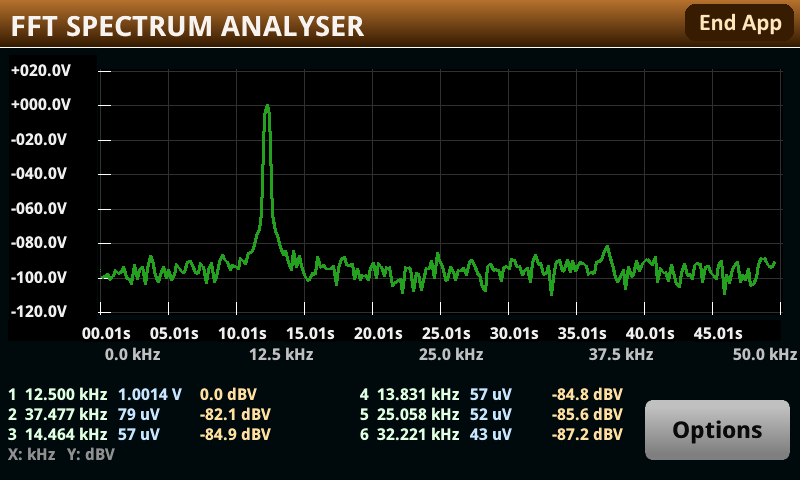
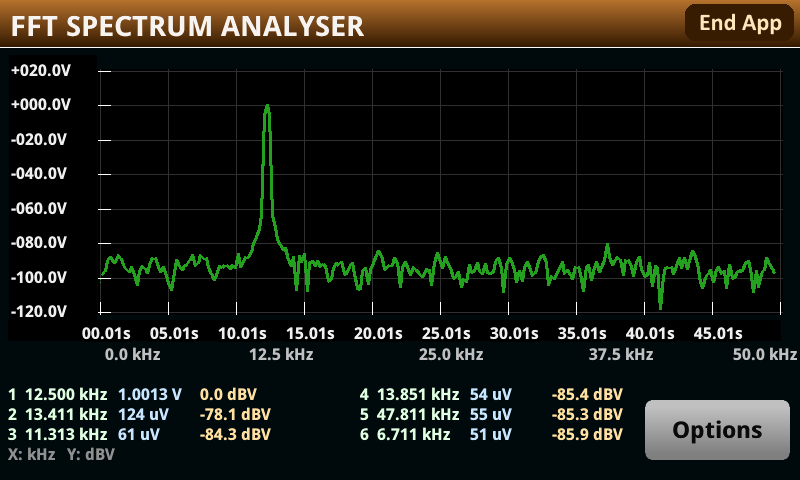
Re-measure every size, and correct the figures the first sweep got wrong
The documentation described the trace as a min/max reduction to 256 columns and quoted
frame times from before the staged refill and the measured timer period. All three
documents now match the code, and the two manual screenshots are retaken -- they showed a
20 dB noise band, which is what the min/max trace drew and the maximum-only trace does
not.

The figures in the previous commit were measured through the WRONG CODE, and the error is
worth recording because the harness looked correct while it happened. docmeas5.py parks
the frame loop before loading the modules and calls fftsa.saved_frame() to time one frame
synchronously; its park saved fftsa.frame only when saved_frame was nil, so after the
reload saved_frame still pointed at the PREVIOUS build's frame wrapper. The sweep measured
the old instrumented frame -- gcinfo per frame, the counters and a legend rewrite -- while
reporting it as the new one. Caught by a screen capture showing a debug legend belonging
to a build whose instrumentation had already been deleted. Both scripts now clear the save
with an explicit fftsa.parked flag.

Re-measured, firmware 1.7.17a, twelve frames a size, event log clean:

  N      apply   frame   worst  period  rate   occ   bin Hz     acq
  512    0.106   0.079   0.081   0.10  10.00   81%   195.313     5.1 ms
  1024   0.219   0.122   0.125   0.20   5.00   62%    97.656    10.2 ms
  2048   0.376   0.212   0.215   0.30   3.33   72%    48.828    20.5 ms
[…]

diff --git a/docs/PERFORMANCE.md b/docs/PERFORMANCE.md
@@ -9,7 +9,7 @@ The short version: **precision is not what this app pays for, and neither is the
 It pays for interpreter dispatch and for marshalled calls across the TSP API. Every lever below is
 about doing fewer operations, not cheaper ones.
 
-## The displayed frame rate is quantised, and that is the whole story
+## The displayed frame rate is quantised, and the app chooses which tick it lands on
 
 The app offers 512 through 16,384 samples in Options, retaining 512 as the default. Every size was
 measured on the instrument on 2026-10-24 -- see **Every selectable sample count, measured** below --
@@ -33,6 +33,17 @@ displayed = 1 / (0.05 * ceil(frame / 0.05))
 which admits 20, 10, 6.67, 5 fps and nothing between. **Shaving a frame from 81 ms to 55 ms buys
 nothing; getting it from 51 to 49 doubles the rate.** Optimising this app means crossing a boundary,
 not reducing a number.
+
+That formula describes a period left at the 0.05 s floor, which is what the app used to do, and the
+idle it leaves is then an accident of rounding -- 44 % at 512 samples and 2 % at 4096. The second
+figure is why the Options button was unreachable at the larger counts: `delay()` lets the display task
+paint, but dispatching a touch needs the Lua interpreter, and during a frame the interpreter is busy,
+so the only time a press can be handled is the gap between a frame ending and the next tick.
+
+The app now arms the timer deliberately, at the smallest tick count leaving about a fifth of the
+period idle, from the peak work over eight real frames (`fftsa.tick_period`). The quantisation is
+unchanged -- it is the firmware's -- but which tick a size lands on is now a decision with a reason
+rather than a remainder.
 
 ### Measured, N=512, 256 bins, graph 784x272, timer frozen, frames back to back
 
@@ -135,26 +146,41 @@ event log read afterwards; if 1706 appears, `sg_yield` is short of the display t
 ## Every selectable sample count, measured
 
 Firmware 1.7.17a, 100 kS/s, 10 V range, 10 Hz to 50 kHz span, a 12.5 kHz 1.000 V tone, graph
-784x292, frame timer parked so each figure is one synchronous call. Taken 2026-10-24.
+784x292, 255 trace points at every count. Twelve frames a size, called synchronously with the timer
+parked, so the period each size settles on has been re-armed from real frames before it is read.
+Taken 2026-10-25, event log clean throughout. `tools/../../fftmeas/docmeas5.py` is the run.
 
-| N | Apply | frame | displayed | trace points | bin width |
-|---|---|---|---|---|---|
-| 512 | 0.105 s | 0.095 s | 10 fps | 255 | 195.31 Hz |
-| 1024 | 0.232 s | 0.161 s | 5 fps | 380 | 97.66 Hz |
-| 2048 | 0.393 s | 0.258 s | 3.3 fps | 441 | 48.83 Hz |
-| 4096 | 0.755 s | 0.456 s | 2 fps | 475 | 24.41 Hz |
-| 8192 | 1.488 s | 0.855 s | 1.1 fps | 496 | 12.21 Hz |
-| 16384 | 2.906 s | 1.681 s | 0.6 fps modelled, **0.5 Hz observed** | 502 | 6.10 Hz |
+| N | Apply | frame | worst frame | period | displayed | occupancy | bin width | record |
+|---|---|---|---|---|---|---|---|---|
+| 512 | 0.106 s | 0.079 s | 0.081 s | 0.10 s | **10.0 fps** | 81 % | 195.31 Hz | 5.1 ms |
+| 1024 | 0.219 s | 0.122 s | 0.125 s | 0.20 s | 5.0 fps | 62 % | 97.66 Hz | 10.2 ms |
+| 2048 | 0.376 s | 0.212 s | 0.215 s | 0.30 s | 3.33 fps | 72 % | 48.83 Hz | 20.5 ms |
+| 4096 | 0.737 s | 0.460 s | 0.526 s | 0.60 s | 1.67 fps | 88 % | 24.41 Hz | 41.0 ms |
+| 8192 | 1.455 s | 0.860 s | 0.883 s | 1.10 s | 0.91 fps | 80 % | 12.21 Hz | 81.9 ms |
+| 16384 | 2.893 s | 1.686 s | 1.730 s | 2.15 s | 0.47 fps | 80 % | 6.10 Hz | 163.8 ms |
 
-The 0.095 s frame at 512 against the 81.8 ms of the phase table above is the same configuration
-measured a different way, through `options_apply` rather than per phase.
+**The worst frame is not the mean plus noise.** At 4096 the slowest of twelve is 0.526 s against a
+0.460 s mean, a 14 % outlier, and it is what puts that row on 0.60 s rather than 0.55 -- the period
+covers the slowest frame by design, so one slow frame in a window costs a tick until the window
+turns over. Every other count holds within 2 % of its mean. The occupancy column is `worst / period`,
+so 4096's 88 % is that outlier arriving after the period had been armed from a lower peak.
 
-**These frame times are a floor, not what the operator sees.** They were taken with the frame timer
-parked and `saved_frame()` called synchronously, which leaves out the display task's own paint -- in
-the running app that work lands between frames and costs another tick or two. Measured on the
-installed app at 16384 the update is about **0.5 Hz**, a 2.0 s period, against the 0.59 fps the 1.681 s
-figure predicts: the real frame is nearer 1.95 s. Treat the table as per-phase cost and the 0.5 Hz as
-the rate.
+**The displayed rate is now a figure the app chooses, not one the quantisation leaves.** The period
+is re-armed from the peak work over eight real frames, through `fftsa.tick_period()`, which asks for
+the work to be about 80 % of the period and rounds up to the firmware's 0.05 s tick. So `period` is
+what the operator sees and `worst frame` is what it was sized to cover -- the mean is only there to
+show the spread is small, under 2 % at every count.
+
+4096 and 8192 are **slower than an earlier revision of this table** recorded -- 1.67 fps against 2.0,
+0.91 against 1.1 -- and that is the rule working rather than a regression. Those figures came from a
+period left at the 0.05 s floor with ticks dropped, which gave the interpreter 2 % idle at 4096 and
+made the Options button unreachable there. A fifth of each frame is now idle by construction, and the
+button answers at 16384.
+
+Two sources of error this table had before, both now gone: the frame times were taken without the
+display task's paint and so ran a tick or two optimistic, and the trace point count grew with N
+(255 at 512 up to 502 at 16384) which moved the fill cost between rows. The trace is a fixed 255
+points at every count.
 
 ### Where a frame goes, per sample and per bin
 
@@ -169,12 +195,41 @@ Each measured on its own, so the frame can be built from them for any count:
 | max-scan over `fft_pwr` | **2.5 us a bin** | per bin examined by the column reduction |
 
 `fftsa.frame_estimate(n)` in `spectrum_app.tsp` is these numbers, and predicts 0.080 s at 512
-against 0.095 measured and 1.63 s at 16384 against 1.681. `busy_max` is three times it.
+against 0.079 measured and 1.63 s at 16384 against 1.686. `busy_max` is three times it.
 
-**The column cap is why the larger counts are usable.** Writing every bin at 16384 would be 8191
-points at 51.6 us, about 0.42 s a frame -- a quarter of the whole frame -- for points the firmware
-then discards, 784 pixels being all it has. Reducing to 256 columns costs a 2.5 us scan per bin plus
-about 500 writes: 0.05 s.
+**The model no longer sets the frame rate**, and it should not be made to. It is a fit at one point
+count and one draw path, and it errs both ways: 80.4 ms at 512 against 79, and 216 ms at 2048 against
+212. Divided by the occupancy target those errors land either side of a tick boundary, which is a
+50 % swing in displayed rate. `frame_estimate` is now used only for the first arm, before any frame
+has been timed, and for `busy_max`; `fftsa.frame()` re-arms from measurement thereafter.
+
+**The fixed column count is why the larger counts are usable.** Writing every bin at 16384 would be
+8191 points at 51.6 us, about 0.42 s a frame -- a quarter of the whole frame -- for points the
+firmware then discards, 784 pixels being all it has. 255 columns costs a 2.5 us scan per bin plus 255
+writes: about 0.035 s at any count, which is also what makes the frame time linear in N.
+
+### The refill, and the window it opens
+
+The trace buffer is bound to the graph for the life of the app and refilled in place, so it is at
+n = 0 from `clear()` until the last write and a paint landing there draws a blank or partial trace.
+That window is the flicker, and it cannot be removed -- the firmware needs the clear before a
+`FILL_ONCE` buffer can be rewritten, and the alternative of filling a second buffer and handing it
+over needs a `removeall`, which repaints the whole widget including its own axis labels every frame.
+
+So the window is made narrow instead. Every value is computed into four preallocated arrays *before*
+the clear, while the buffer still holds the previous complete trace, leaving only
+`buffer.write.reading` inside it. Measured at 255 points:
+
+| | time |
+|---|---|
+| staging, outside the window | 7.6 ms |
+| clear and 255 writes, the window | **20.3 ms** |
+| the same refill interleaved, as it was | 30 ms, all of it the window |
+
+A point costs about 109 us to produce and 51.6 of that is the write, so this is the better half of
+the work moved out. There is no bulk route into a reading buffer (`FIRMWARE_API.md`), so one write a
+point is the floor, and caching the function in a local -- 65 us against 72 through the table -- is
+the only other lever.
 
 ### Apply, and why it is the figure an operator notices
 

diff --git a/docs/MANUAL.md b/docs/MANUAL.md
@@ -10,7 +10,7 @@ screen and buffer the app made.
 
 ![The spectrum screen: a 12.5 kHz 1.000 V tone at 0.0 dBV over a 10 Hz to 50 kHz span, 512 samples, Hann window, noise floor near -100 dBV](manual-spectrum.png)
 
-+20 to −120 dBV against frequency. By default, 512 samples a frame, 256 bins, about 10 frames a second.
++20 to −120 dBV against frequency. By default, 512 samples a frame, 256 bins, 10 frames a second.
 Options offers larger records for finer bin spacing, at a slower update rate.
 
 **Two rows of numbers sit under the plot. Read the lower one.** The graph object's X axis is
@@ -72,7 +72,7 @@ carries** below).
 
 | FFT Samples | 512 | 1024 | 2048 | 4096 | 8192 | 16384 |
 |---|---|---|---|---|---|---|
-| Apply | 0.11 s | 0.23 s | 0.39 s | 0.76 s | 1.49 s | **2.91 s** |
+| Apply | 0.11 s | 0.22 s | 0.38 s | 0.74 s | 1.46 s | **2.89 s** |
 
 Most of it is the gain table and the window: both are rebuilt for the new size, and both are
 proportional to it. The loading screen is up for all of it.
@@ -156,10 +156,10 @@ watch which peak follows.
 
 ## How many points the trace carries
 
-The graph is 784 pixels wide, so a sample count above 512 gives more bins than there are columns to
-draw them in -- 8192 bins at 16384 samples. The app therefore reduces the trace to **256 columns**,
-and the reduction is not a stride: each column reports the **minimum and the maximum** of the bins
-that fall in it.
+The plotted area is 680 pixels wide, measured off a panel capture, so a sample count above 512 gives
+more bins than there are columns to draw them in -- 8192 bins at 16384 samples. The app therefore
+draws a fixed **255 columns** at every sample count, and the reduction is not a stride: each column
+reports the **maximum** of the bins that fall in it.
 
 Three consequences, and the first is the point of it:
 
@@ -179,15 +179,20 @@ Three consequences, and the first is the point of it:
 
 ![The spectrum screen at 16384 samples: the 12.5 kHz tone as a narrow spike at 0.0 dBV, its second
 and third harmonics resolved as separate spikes at 25.000 and 37.500 kHz, and the noise floor drawn
-as a band between about -100 and -118 dBV](manual-spectrum-16384.png)
+as a single line near -100 dBV](manual-spectrum-16384.png)
 
-The band along the bottom is the per-column minimum and maximum. Compare the 512-sample shot at the
-top of this manual, where the same tone is a single 195 Hz-wide lump and the harmonics are lost in
-the floor.
+Compare the 512-sample shot at the top of this manual, where the same tone is a single 195 Hz-wide
+lump and the harmonics are lost in the floor.
+
+Because each column reports its maximum, the noise floor reads about 6 dB high and as an upper
+envelope rather than a band. Writing the minimum as well was tried and withdrawn: it doubled the
+point count and made every second segment span the whole noise band, about 45 px, where a
+single-valued trace moves a few pixels between neighbours -- and the firmware's cost of drawing a
+trace is per segment length.
 
 Reducing the trace does not reduce the **table**: `find_peaks` reads every bin at full resolution, so
 a reported frequency is never a column edge. It is also what makes the larger counts usable at all --
-writing 8191 points costs 51.6 us each, about 0.42 s a frame, against 0.03 s for 502.
+writing 8191 points costs 51.6 us each, about 0.42 s a frame, against 0.035 s for 255.
 
 ## The peak table is more accurate than the trace
 
@@ -269,19 +274,27 @@ reported a 100 Hz tone at 390.6 Hz and 16 dB low.
 - **A span wider than 50 kHz raises the rate** and coarsens the bins with it. At 512 samples:
   200 kS/s to 100 kHz (390.6 Hz bins), 500 kS/s to 250 kHz (976.6 Hz), 1 MS/s to 500 kHz (1953 Hz).
   Divide all three by 32 at 16384 samples. 500 kHz is the highest tone the instrument can show.
-- **About 10 frames a second at 512 samples, and far slower above it.** The firmware's shortest
-  timer period is 0.05 s and a tick arriving mid-frame is dropped, so the displayed rate is
-  `1 / (0.05 * ceil(frame / 0.05))` -- a ladder of 20, 10, 6.67, 5 fps and on down, not just those
-  four. Measured frame times and the rates they give:
+- **10 frames a second at 512 samples, and far slower above it.** The firmware's shortest timer
+  period is 0.05 s and a tick arriving mid-frame is dropped, so the rate can only be `1 / (0.05 * k)`
+  -- a ladder of 20, 10, 6.67, 5 fps and on down. The app times its own frames and picks the smallest
+  period that leaves about a fifth of it idle, so the rate below is what it settles on rather than
+  wherever the rounding fell:
 
   | FFT Samples | 512 | 1024 | 2048 | 4096 | 8192 | 16384 |
   |---|---|---|---|---|---|---|
-  | frame | 0.095 s | 0.161 s | 0.258 s | 0.456 s | 0.855 s | 1.681 s |
-  | displayed | 10 fps | 5 fps | 3.3 fps | 2 fps | 1.1 fps | **0.6 fps** |
+  | frame | 0.079 s | 0.122 s | 0.212 s | 0.460 s | 0.860 s | 1.686 s |
+  | displayed | 10 fps | 5 fps | 3.33 fps | 1.67 fps | 0.91 fps | **0.47 fps** |
 
-  At 16384 the trace repaints about every **2 s** -- 0.5 Hz, measured on the installed app -- and the
-  glass is unresponsive for most of each frame: the display task only runs while Lua is blocked. The
-  frame figures above exclude that paint, so they run a tick or two optimistic.
+  That reserved idle is what keeps the **Options** button answering: `delay()` lets the display task
+  paint, but dispatching a press needs the Lua interpreter, and during a frame the interpreter is
+  busy. It costs 4096 and 8192 about a tick each against leaving the period at the floor, and in
+  exchange every size stays operable -- at 16384 the trace repaints about every two seconds and the
+  button still answers. **16384 is usable rather than comfortable**, and 32768 is not offered.
+
+- **The trace flickers slightly.** The firmware requires a writable buffer to be cleared before it
+  can be rewritten, so the trace buffer is empty for the 20 ms it takes to write 255 points, and a
+  repaint landing in that window draws a partial trace. Everything the refill needs is computed
+  before the clear to keep that window as short as the write calls themselves.
 - **No rectangular or flat-top window.** Rectangular nulls one bin from the peak, which makes the
   three-bin estimate unusable; flat-top is seven bins wide.
 - **The peak table starts two or three bins above DC** and the top bin of the span has no sub-bin

diff --git a/README.md b/README.md
@@ -4,7 +4,7 @@ A real-time FFT spectrum analyser for the Keithley DMM6500, DAQ6510 and DMM7510,
 on the instrument** as a TSP app. The digitizer captures, the instrument computes the transform in
 Lua, and the firmware's own graph object draws the trace. No host, no PC software.
 
-![The spectrum screen: two tones at 21.1 and 42.2 kHz, 4.5 and 4.0 V, over a 0 to 50 kHz span with the Hann window](docs/manual-spectrum.png)
+![The spectrum screen: a 12.5 kHz 1.000 V tone reading 0.0 dBV over a 10 Hz to 50 kHz span, 512 samples, Hann window, noise floor near -100 dBV](docs/manual-spectrum.png)
 
 A bench multimeter is not a spectrum analyser. This one has a 1 MS/s digitizer, a 400 MHz processor
 and a touchscreen, which is enough for 195 Hz resolution at 10 frames a second.
@@ -16,10 +16,10 @@ and a touchscreen, which is enough for 195 Hz resolution at 10 frames a second.
 - **Digitizes** up to 1 MS/s, with selectable 512 to 16,384 samples per frame (default 512).
 - **Transforms** with a real-input radix-2 FFT in Lua 5.0.2. The window, the bit-reversal permutation
   and every twiddle factor are precomputed when settings are applied. 256 to 8,192 bins.
-- **Plots** through `display.OBJ_GRAPH`, one call a frame rather than one a point, which brings axes,
-  grid, labels and auto-scaling with it. Above 256 bins in the span the trace is reduced to the
-  graph's 256 columns by the **minimum and maximum of each column**, so a narrow tone always reaches
-  it and the noise floor reads as a band.
+- **Plots** through `display.OBJ_GRAPH`, one buffer refill a frame and no graph call at all, which
+  brings axes, grid, labels and auto-scaling with it. The trace is a fixed **255 columns** at every
+  sample count, each carrying the **maximum of the bins it covers**, so a narrow tone always reaches
+  it however many bins the span holds.
 - **Finds six peaks** to sub-bin accuracy, correcting both the frequency and the scalloping loss.
 - **Offers four windows**, Kaiser with six betas, and reads peaks exactly for each.
 - **Previews acquisition settings** in Options: sampling rate, bin spacing and record duration
@@ -34,9 +34,9 @@ content folds it into view — a pure 21.1 kHz sine, sampled for a 7 kHz span, d
 More samples give finer bins without reducing bandwidth: 16,384 samples at 100 kS/s give
 6.10 Hz spacing and a 163.84 ms record. Acquisition duration is `N / fs`, not the full frame time;
 processing and display add overhead. Larger sizes cost update rate, and measurably so: the frame goes
-from 0.095 s at 512 samples to 1.681 s at 16,384, and Apply from 0.11 s to 2.91 s. The trace repaints
-about every 2 s at the top size -- 0.5 Hz observed -- and the glass is unresponsive for most of each
-frame, because the display task only runs while Lua is blocked. `docs/PERFORMANCE.md` has every size measured.
+from 0.079 s at 512 samples to 1.686 s at 16,384, and Apply from 0.11 s to 2.89 s, so the trace
+repaints at 10 fps at the default and about every two seconds at the top size. 16,384 is usable
+rather than comfortable. `docs/PERFORMANCE.md` has every size measured.
 
 ## Choosing a window
 
@@ -143,10 +143,20 @@ the Lua task blocks — so a Lua frame rate means nothing by itself. A frame loo
 measures 35.6 Hz in Lua while dropping display messages and updating the glass three times a second.
 Every frame therefore blocks once, deliberately, for the paint.
 
-That also fixes the frame rate. A timer tick arriving mid-frame is dropped rather than queued, and
-the shortest period the firmware accepts is 0.05 s, so the displayed rate is quantised to
-`1/(0.05 × ceil(frame/0.05))` — 20, 10, 6.67 fps and nothing between. Getting a frame under 50 ms
-doubles the rate; shaving it from 81 ms to 55 ms buys nothing.
+That also quantises the frame rate. A timer tick arriving mid-frame is dropped rather than queued,
+and the shortest period the firmware accepts is 0.05 s, so the displayed rate can only be
+`1/(0.05 × k)` — 20, 10, 6.67 fps and nothing between. Shaving a frame from 81 ms to 55 ms buys
+nothing; getting it under 50 ms doubles the rate.
+
+**So the app sets the period rather than letting the quantisation set it.** It times its own frames
+and arms the timer at the smallest tick count that leaves about a fifth of the period idle, because
+that idle is the only time a touch can be dispatched: `delay()` lets the display task paint, but
+dispatching a press needs the Lua interpreter, which is inside the delay. Leaving the period at the
+floor gave 44 % idle at 512 samples and 2 % at 4,096 purely by accident of rounding, and the Options
+button was unreachable at the larger counts. The rule costs 4,096 and 8,192 about a tick each and
+makes every size operable. One consequence worth knowing: a frame landing within 2.5 ms of a tick
+boundary is rounded *down*, because holding the occupancy target to the last millisecond would trade
+a whole tick of rate for a fiftieth of a tick of idle.
 
 **The interpreter is the bottleneck, not the arithmetic.** A Lua table read costs about 1.4 µs and an
 arithmetic operation about 1.2 µs — some 480 cycles at 400 MHz for one multiply whose floating-point
